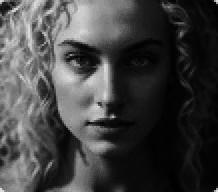
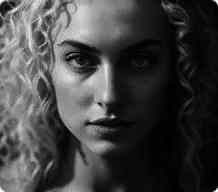
Added rgb

diff --git a/src/VectorQuantization.java b/src/VectorQuantization.java
@@ -218,10 +218,8 @@ public class VectorQuantization implements Algorithm {
         this.codebookSize = codebookSize;
         picHeight = pixels.size();
         picWidth = pixels.get(0).size();
-
         this.vectorWidth = getGreatestDivisor(picWidth , vectorWidth);
         this.vectorHeight = getGreatestDivisor(picHeight , vectorHeight);
-
         ArrayList<ArrayList<ArrayList<Integer>>> vectors = getVectors();
         ArrayList<ArrayList<Integer>> avg = calculateAvg(vectors);
         ArrayList<ArrayList<ArrayList<Integer>>> codebook = new ArrayList<>();
@@ -247,12 +245,14 @@ public class VectorQuantization implements Algorithm {
 
     @Override
     public void compress(String inputPath, String outputPath, HashMap<String,Integer> required) throws IOException {
-        int [][] pixels = imageHandler.readImage(inputPath);
+        int [][][] pixels = imageHandler.readImage(inputPath);
         ArrayList<ArrayList<Integer>> pixelsList = new ArrayList<>();
-        for(int i = 0 ; i < pixels.length ; i++){
+        for(int i = 0 ;i<3 ; i++){
             ArrayList<Integer> temp = new ArrayList<>();
-            for(int j = 0 ; j < pixels[0].length ; j++){
-                temp.add(pixels[i][j]);
+            for(int j = 0 ; j < pixels[i].length ; j++){
+                for(int k = 0 ; k < pixels[i][j].length ; k++){
+                    temp.add(pixels[i][j][k]);
+                }
             }
             pixelsList.add(temp);
         }
@@ -269,7 +269,7 @@ public class VectorQuantization implements Algorithm {
                     minIndex = j; // update minimum index
                 }
             }
-            compressed.add(minIndex); // add the codebook vector to compressed list
+            compressed.add(minIndex);
         }
         String data = "";
         // write the codebook to file
@@ -351,18 +351,18 @@ public class VectorQuantization implements Algorithm {
             codebook.add(temp);
         }
 
-        int bit_size =(int)(Math.log10(codebook.size()) / Math.log10(2));
+        int bit_size =(int)(Math.log10(codebook.size()) / Math.log10(2)); // number of bits needed to represent the index of the vector in the codebook
         ArrayList<Integer> compressed = new ArrayList<>();
-        for(int i = 0 ; i < compressedSize ; i++){
-            int num = 0;
-            for(int j = 0 ; j < bit_size ; j++){
+        for(int i = 0 ; i < compressedSize ; i++){ // compressed[i] = the index of the vector in the codebook, i is the i-th vector
+            int num = 0;  // the index of the vector in the codebook
+            for(int j = 0 ; j < bit_size ; j++){ // iterate over the bits of the index
                 if(data.charAt(start) == '1'){
                     num |= (1 << (bit_size - j - 1));
                 }
                 start++;
             }
 
-            compressed.add(num);
+            compressed.add(num); // add the index to the compressed array
         }
 
         ArrayList<ArrayList<ArrayList<Integer>>> decompressed = new ArrayList<>();
@@ -370,17 +370,24 @@ public class VectorQuantization implements Algorithm {
             decompressed.add(codebook.get(compressed.get(i)));
         }
 
-        ArrayList<ArrayList<Integer>> pixels = new ArrayList<>();
+        ArrayList<ArrayList<ArrayList<Integer>>> pixels = new ArrayList<>();
         int width_vector = width / vectorWidth;
         int height_vector = height / vectorHeight;
-        for(int x = 0 ; x < height ; x++){
-            ArrayList<Integer> temp = new ArrayList<>();
-            for(int y = 0 ; y < width ; y++){
-                temp.add(decompressed.get((x / vectorHeight) * width_vector + (y / vectorWidth)).get(x % vectorHeight).get(y % vectorWidth));
+        for(int i = 0 ; i<3;i++){
+            ArrayList<ArrayList<Integer>> temp = new ArrayList<>();
+            for(int j = 0 ; j < height_vector ; j++){
+                for(int k = 0 ; k < vectorHeight ; k++){
+                    ArrayList<Integer> temp2 = new ArrayList<>();
+                    for(int l = 0 ; l < width_vector ; l++){
+                        for(int m = 0 ; m < vectorWidth ; m++){
+                            temp2.add(decompressed.get(j * width_vector + l).get(k).get(m));
+                        }
+                    }
+                    temp.add(temp2);
+                }
             }
-            pixels.add(temp);
+            pixels.add(temp); // add the decompressed vector to the pixels array
         }
-
         imageHandler.writeImage(pixels , outputPath);
 
     }

diff --git a/src/ImageHandler.java b/src/ImageHandler.java
@@ -4,26 +4,32 @@ import java.io.*;
 import java.util.ArrayList;
 
 public class ImageHandler {
-    public static int[][] readImage(String path) throws IOException {
+
+
+
+    public static int[][][] readImage(String path) throws IOException {
         BufferedImage img = ImageIO.read(new File(path));
-        int[][] pixels = new int[img.getWidth()][img.getHeight()];
+        int[][][] pixels = new int[img.getWidth()][img.getHeight()][3];
         for(int i = 0 ; i < img.getWidth() ; i++){
             for(int j = 0 ; j < img.getHeight() ; j++){
                 int r = (img.getRGB(i , j) >> 16) & 0xff;
                 int g = (img.getRGB(i , j) >> 8) & 0xff;
                 int b = img.getRGB(i , j) & 0xff;
-                int gray = (r + g + b) / 3;
-                pixels[i][j] = gray;
+                pixels[i][j][0] = r;
+                pixels[i][j][1] = g;
+                pixels[i][j][2] = b;
             }
         }
         return pixels;
     }
-    public static void writeImage(ArrayList<ArrayList<Integer>>pixels, String path) throws IOException {
-        BufferedImage img = new BufferedImage(pixels.size(), pixels.get(0).size(), BufferedImage.TYPE_BYTE_GRAY);
+    public static void writeImage(ArrayList<ArrayList<ArrayList<Integer>>>pixels, String path) throws IOException {
+        BufferedImage img = new BufferedImage(pixels.size(), pixels.get(0).size(), BufferedImage.TYPE_INT_RGB);
         for(int i = 0 ; i < pixels.size() ; i++){
             for(int j = 0 ; j < pixels.get(0).size() ; j++){
-                int gray = pixels.get(i).get(j);
-                int rgb = (gray << 16) | (gray << 8) | gray;
+                int r = pixels.get(i).get(j).get(0);
+                int g = pixels.get(i).get(j).get(1);
+                int b = pixels.get(i).get(j).get(2);
+                int rgb = (r << 16) | (g << 8) | b;
                 img.setRGB(i , j , rgb);
             }
         }
